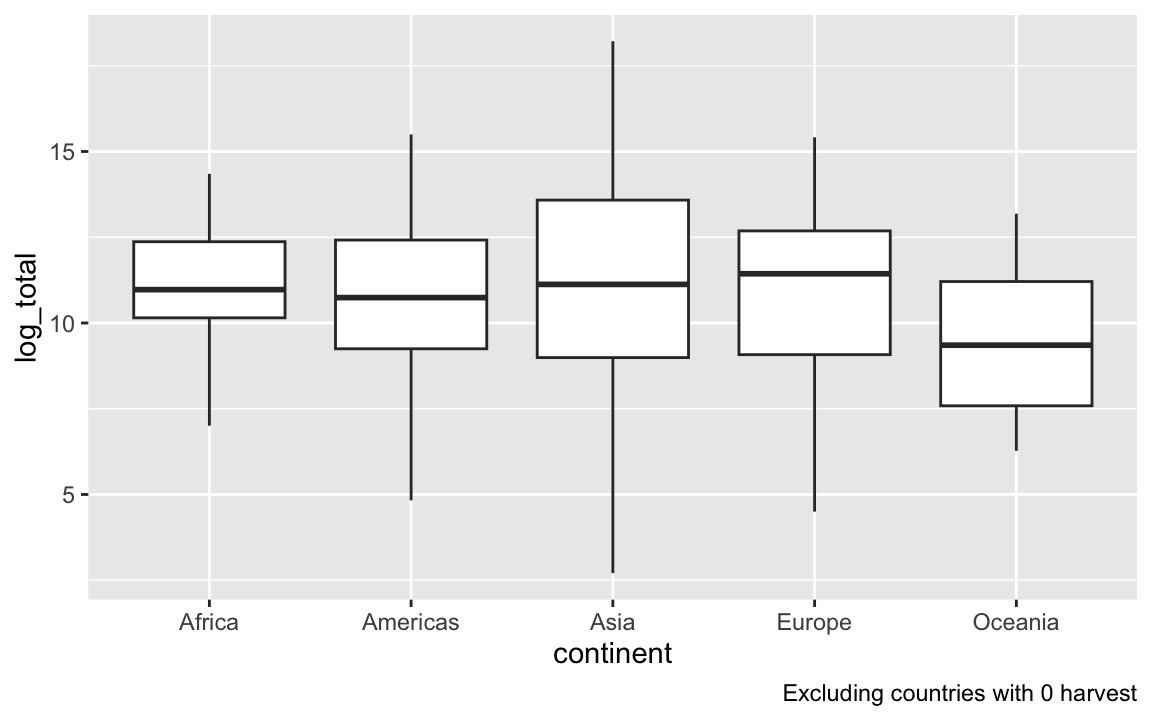
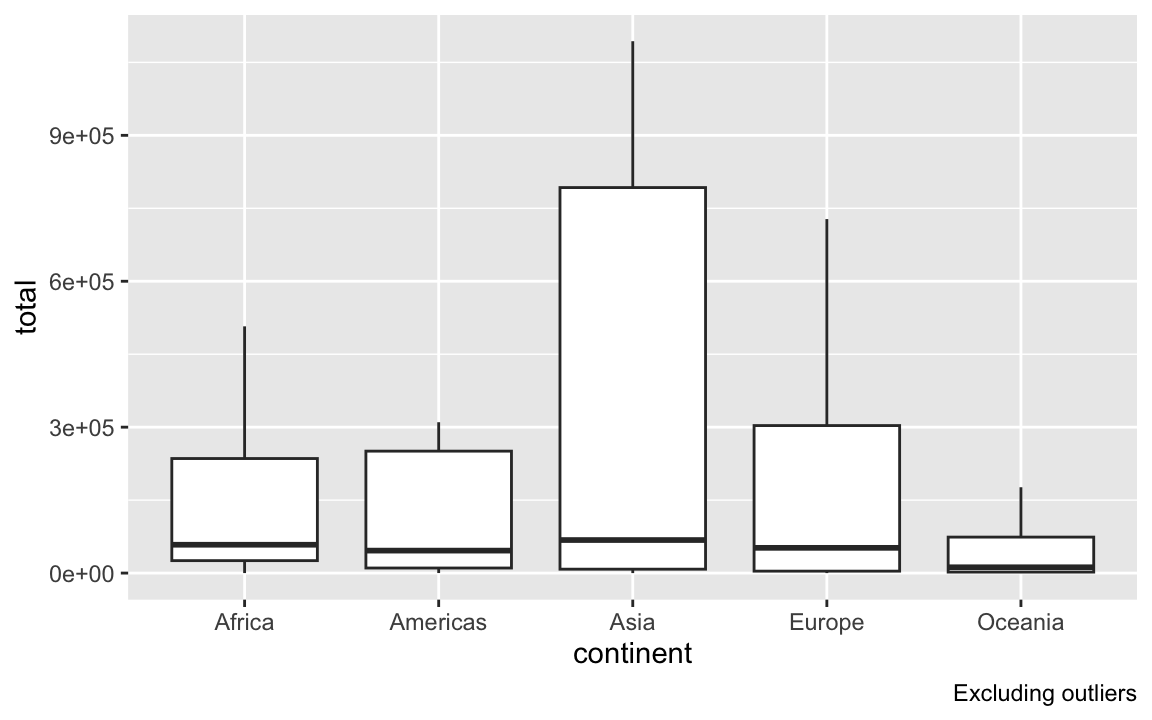
open

diff --git a/docs/live_code/data_wrangling_pt2.html b/docs/live_code/data_wrangling_pt2.html
@@ -180,6 +180,7 @@ code span.wa { color: #60a0b0; font-weight: bold; font-style: italic; } /* Warni
   <li><a href="#joins" id="toc-joins" class="nav-link" data-scroll-target="#joins">Joins</a></li>
   <li><a href="#grouping-by-grouped-operations" id="toc-grouping-by-grouped-operations" class="nav-link" data-scroll-target="#grouping-by-grouped-operations">Grouping by grouped operations</a></li>
   <li><a href="#piping-to-ggplot" id="toc-piping-to-ggplot" class="nav-link" data-scroll-target="#piping-to-ggplot">Piping to ggplot()</a></li>
+  <li><a href="#a-note-on-nas" id="toc-a-note-on-nas" class="nav-link" data-scroll-target="#a-note-on-nas">A note on <code>NA</code>s</a></li>
   </ul>
 </nav>
     </div>
@@ -416,16 +417,48 @@ Expand
 <div class="sourceCode cell-code" id="cb21"><pre class="sourceCode numberSource r number-lines code-with-copy"><code class="sourceCode r"><span id="cb21-1"><a href="#cb21-1"></a><span class="co"># Notice that we don't specify the data parameter in ggplot()!</span></span>
 <span id="cb21-2"><a href="#cb21-2"></a>fish_joined <span class="sc">|&gt;</span></span>
 <span id="cb21-3"><a href="#cb21-3"></a>  <span class="fu">na.omit</span>() <span class="sc">|&gt;</span></span>
-<span id="cb21-4"><a href="#cb21-4"></a>  <span class="fu">mutate</span>(<span class="at">log_total =</span> <span class="fu">log</span>(total)) <span class="sc">|&gt;</span></span>
-<span id="cb21-5"><a href="#cb21-5"></a>  <span class="fu">ggplot</span>(<span class="fu">aes</span>(<span class="at">x =</span> continent, <span class="at">y =</span> log_total)) <span class="sc">+</span></span>
-<span id="cb21-6"><a href="#cb21-6"></a>  <span class="fu">geom_boxplot</span>(<span class="at">outliers =</span> F) <span class="sc">+</span></span>
-<span id="cb21-7"><a href="#cb21-7"></a>  <span class="fu">labs</span>(<span class="at">caption =</span> <span class="st">"Excluding countries with 0 harvest"</span>)</span></code><button title="Copy to Clipboard" class="code-copy-button"><i class="bi"></i></button></pre></div>
-<div class="cell-output cell-output-stderr">
-<pre><code>Warning: Removed 4 rows containing non-finite outside the scale range
-(`stat_boxplot()`).</code></pre>
-</div>
+<span id="cb21-4"><a href="#cb21-4"></a>  <span class="fu">ggplot</span>(<span class="fu">aes</span>(<span class="at">x =</span> continent, <span class="at">y =</span> total)) <span class="sc">+</span></span>
+<span id="cb21-5"><a href="#cb21-5"></a>  <span class="fu">geom_boxplot</span>(<span class="at">outliers =</span> F) <span class="sc">+</span></span>
+<span id="cb21-6"><a href="#cb21-6"></a>  <span class="fu">labs</span>(<span class="at">caption =</span> <span class="st">"Excluding outliers"</span>)</span></code><button title="Copy to Clipboard" class="code-copy-button"><i class="bi"></i></button></pre></div>
 <div class="cell-output-display">
 <p><img src="data_wrangling_pt2_files/figure-html/unnamed-chunk-11-1.png" class="img-fluid" width="576"></p>
+</div>
+</div>
+</section>
+<section id="a-note-on-nas" class="level2">
+<h2 class="anchored" data-anchor-id="a-note-on-nas">A note on <code>NA</code>s</h2>
+<p>Consider the following data frame:</p>
+<div class="cell">
+
+</div>
+<div class="cell">
+<div class="sourceCode cell-code" id="cb22"><pre class="sourceCode numberSource r number-lines code-with-copy"><code class="sourceCode r"><span id="cb22-1"><a href="#cb22-1"></a>df</span></code><button title="Copy to Clipboard" class="code-copy-button"><i class="bi"></i></button></pre></div>
+<div class="cell-output cell-output-stdout">
+<pre><code>  age score
+1   1    NA
+2   2     2
+3  NA     3</code></pre>
+</div>
+</div>
+<p><code>na.omit()</code> will remove ALL rows with any <code>NA</code>:</p>
+<div class="cell">
+<div class="sourceCode cell-code" id="cb24"><pre class="sourceCode numberSource r number-lines code-with-copy"><code class="sourceCode r"><span id="cb24-1"><a href="#cb24-1"></a>df <span class="sc">|&gt;</span></span>
+<span id="cb24-2"><a href="#cb24-2"></a>  <span class="fu">na.omit</span>()</span></code><button title="Copy to Clipboard" class="code-copy-button"><i class="bi"></i></button></pre></div>
+<div class="cell-output cell-output-stdout">
+<pre><code>  age score
+2   2     2</code></pre>
+</div>
+</div>
+<p>If we want to be more selective, we should combine <code>filter()</code> with <code>is.na()</code></p>
+<div class="cell">
+<div class="sourceCode cell-code" id="cb26"><pre class="sourceCode numberSource r number-lines code-with-copy"><code class="sourceCode r"><span id="cb26-1"><a href="#cb26-1"></a><span class="co"># is.na() returns TRUE if the value is NA, and FALSE otherwise</span></span>
+<span id="cb26-2"><a href="#cb26-2"></a><span class="co"># the ! says "not"</span></span>
+<span id="cb26-3"><a href="#cb26-3"></a>df <span class="sc">|&gt;</span></span>
+<span id="cb26-4"><a href="#cb26-4"></a>  <span class="fu">filter</span>(<span class="sc">!</span><span class="fu">is.na</span>(age))</span></code><button title="Copy to Clipboard" class="code-copy-button"><i class="bi"></i></button></pre></div>
+<div class="cell-output cell-output-stdout">
+<pre><code>  age score
+1   1    NA
+2   2     2</code></pre>
 </div>
 </div>
 

diff --git a/docs/schedule.html b/docs/schedule.html
@@ -199,6 +199,7 @@ code span.wa { color: #60a0b0; font-weight: bold; font-style: italic; } /* Warni
 <li><a href="#week1">Week 1</a></li>
 <li><a href="#week2">Week 2</a></li>
 <li><a href="#week3">Week 3</a></li>
+<li><a href="#week4">Week 4</a></li>
 <li><a href="#code_copy">Code copy</a></li>
 </ul>
 <table class="table">
@@ -431,7 +432,10 @@ code span.wa { color: #60a0b0; font-weight: bold; font-style: italic; } /* Warni
 <td style="text-align: center;"></td>
 <td>R 2/27</td>
 <td><ul>
-<li>Topic: <a href="./slides/slides-08-joins.html">Joining data</a> (pdf <a href="slides/pdf/slides-08.pdf">here</a>)</li>
+<li>Topic: <a href="./slides/slides-08-joins.html">Joining data</a> (pdf <a href="slides/pdf/slides-08.pdf">here</a>)
+<ul>
+<li><a href="./live_code/data_wrangling_pt2.html">Live code</a> from today</li>
+</ul></li>
 </ul></td>
 <td><ul>
 <li>See above</li>
@@ -439,6 +443,38 @@ code span.wa { color: #60a0b0; font-weight: bold; font-style: italic; } /* Warni
 <td><ul>
 <li>See above</li>
 </ul></td>
+</tr>
+<tr class="even">
+<td style="text-align: center;"><div id="week4">
+<p><strong>4</strong></p>
+</div></td>
+<td>M 3/03</td>
+<td><ul>
+<li>Topic: <a href="./slides/slides-09-probability.html">Intro to Probability</a> (pdf <a href="slides/pdf/slides-09.pdf">here</a>)</li>
+</ul></td>
+<td></td>
+<td><ul>
+<li>Monday problems on Problem Set 4</li>
+</ul></td>
+</tr>
+<tr class="odd">
+<td style="text-align: center;"></td>
+<td>W 3/05</td>
+<td><ul>
+<li>Topic: Conditional probability</li>
+</ul></td>
+<td></td>
+<td></td>
+</tr>
+<tr class="even">
+<td style="text-align: center;"></td>
+<td>R 3/06</td>
+<td><ul>
+<li><p>Topic: Simpson’s Paradox</p></li>
+<li><p>Live code: prettier tables</p></li>
+</ul></td>
+<td></td>
+<td></td>
 </tr>
 </tbody>
 </table>
